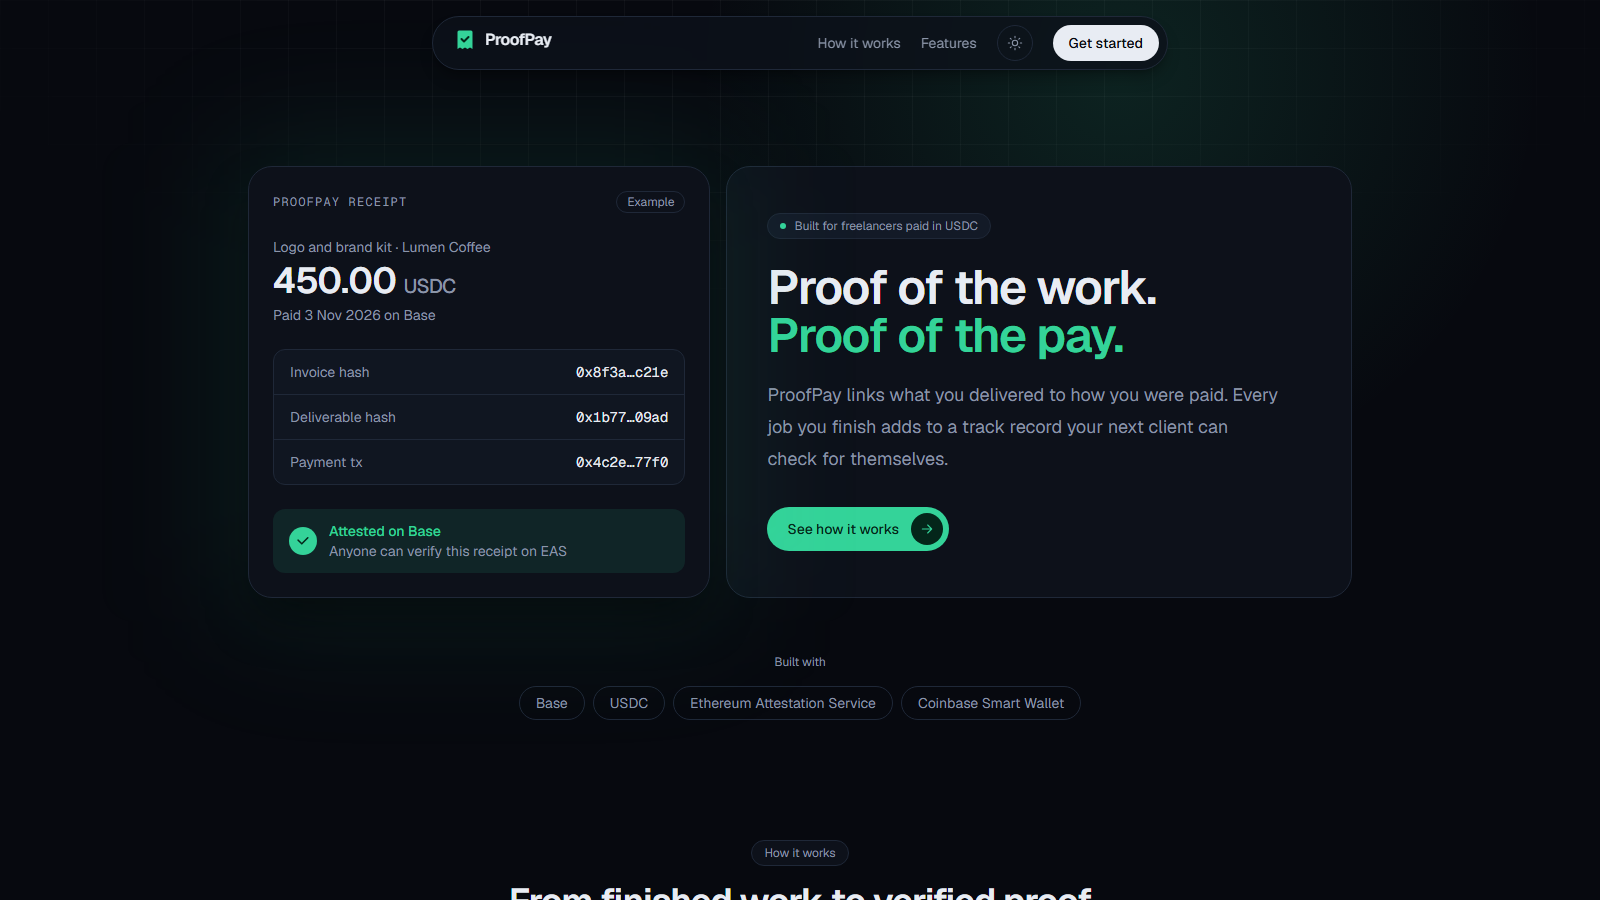
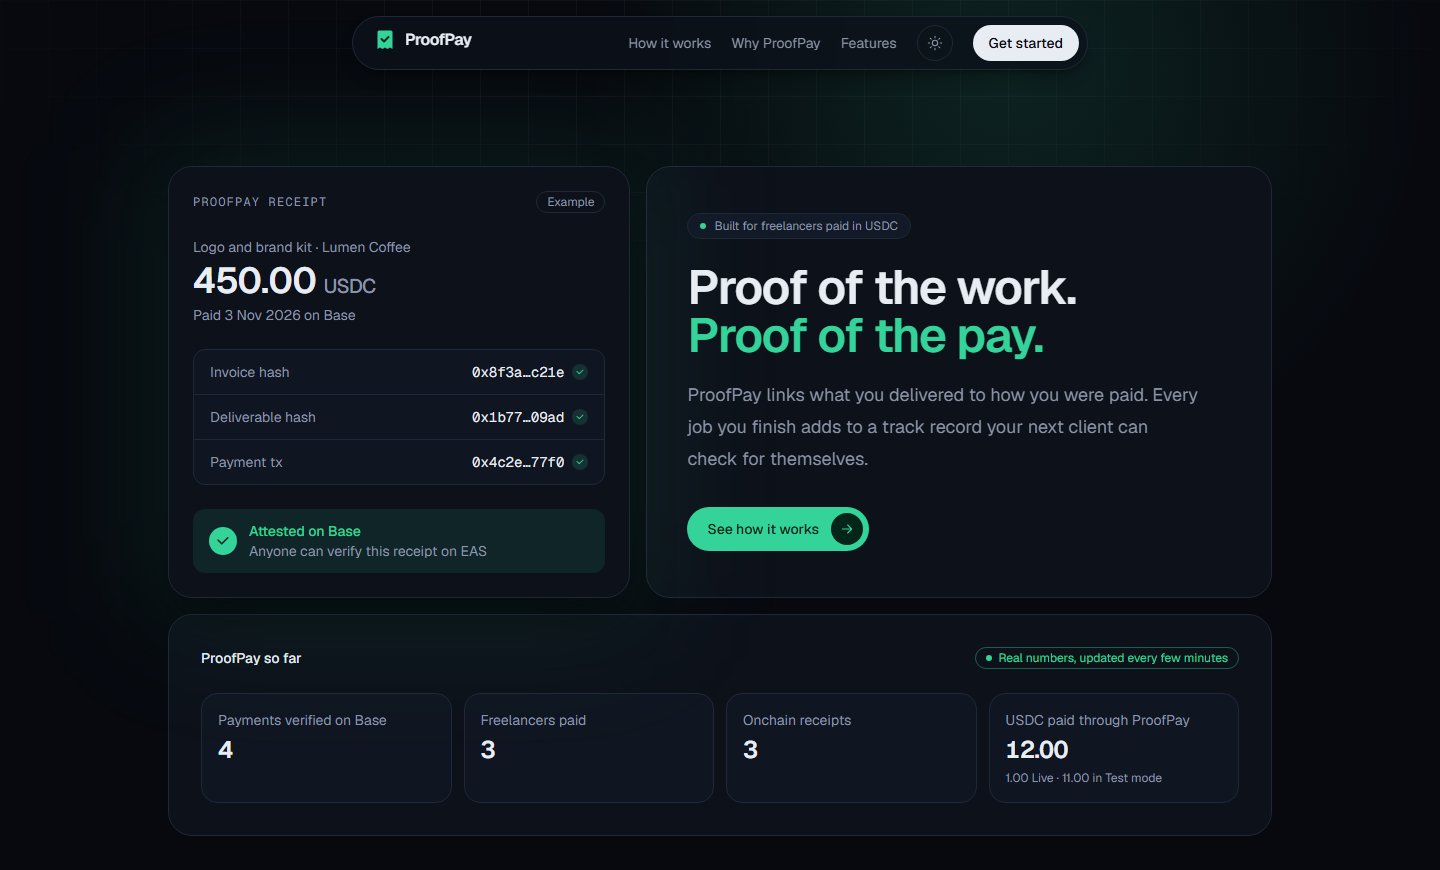
Refresh submission screenshots with the new landing page and a Live receipt

diff --git a/docs/submission.md b/docs/submission.md
@@ -16,7 +16,7 @@ https://proofpay-rho.vercel.app
 
 ## Product screenshot (optional)
 
-Upload `docs/screenshot-landing.png` (landing page) or `docs/screenshot-receipt.png` (a paid invoice with its onchain receipt).
+Upload `docs/screenshot-landing.png` (landing page with live stats) or `docs/screenshot-receipt.png` (a Live invoice paid in real USDC on Base, with its onchain receipt). Both refreshed 7 Nov.
 
 ## Repo URL (optional)
 
